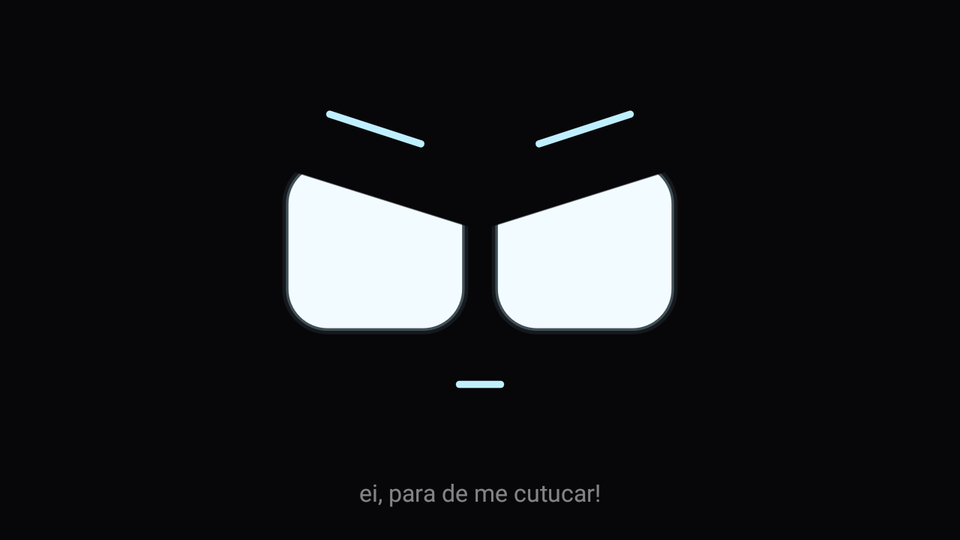
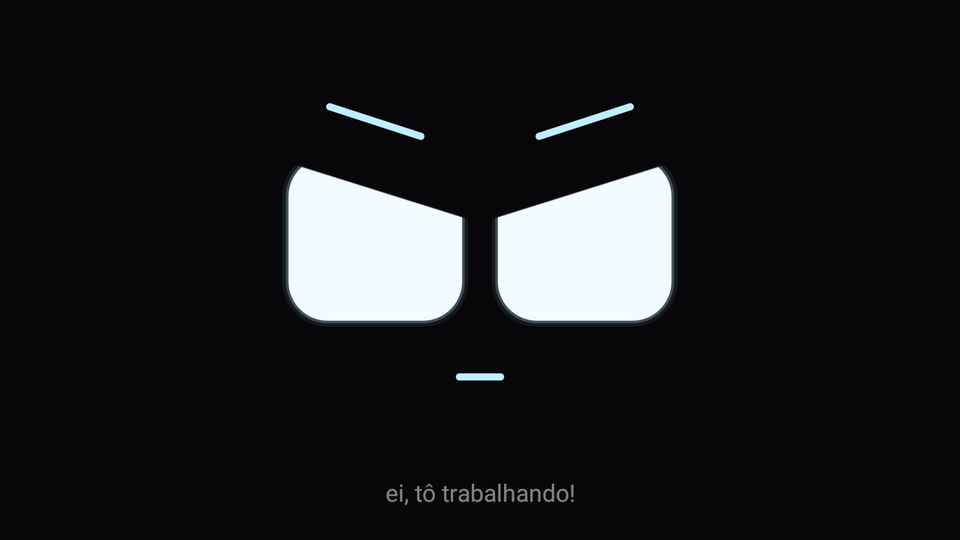
feat: Clanker fala como segurança dedicado

diff --git a/app/src/test/java/dev/rique/guardiao/mood/MoodEngineTest.kt b/app/src/test/java/dev/rique/guardiao/mood/MoodEngineTest.kt
@@ -14,7 +14,7 @@ class MoodEngineTest {
     fun idle_is_contente_with_caption() {
         val s = engine().state(emptyList(), 0)
         assertEquals(Expression.CONTENTE, s.expression)
-        assertEquals("tudo tranquilo", s.caption)
+        assertEquals("tudo sob controle", s.caption)
     }
 
     @Test
@@ -25,17 +25,17 @@ class MoodEngineTest {
         val scared = e.state(down, 4_999)
         assertEquals(Expression.ASSUSTADO, scared.expression)
         assertEquals(Effect.SHAKE, scared.effect)
-        assertEquals("nginx caiu!", scared.caption)
+        assertEquals("PERDI O nginx!", scared.caption)
         val after = e.state(down, 5_001)
         assertEquals(Expression.PREOCUPADO, after.expression)
-        assertEquals("nginx fora do ar", after.caption)
+        assertEquals("nginx ainda não voltou...", after.caption)
     }
 
     @Test
     fun many_downs_single_scare_with_count() {
         val e = engine()
         e.onEvents(listOf(ServerEvent.Down(listOf("a", "b", "c", "d", "e"))), 0)
-        assertEquals("5 containers caíram!", e.state(emptyList(), 100).caption)
+        assertEquals("PERDI 5 CONTAINERS!", e.state(emptyList(), 100).caption)
     }
 
     @Test
@@ -45,7 +45,7 @@ class MoodEngineTest {
         val s = e.state(emptyList(), 3_999)
         assertEquals(Expression.COMEMORANDO, s.expression)
         assertEquals(Effect.BOUNCE, s.effect)
-        assertEquals("nginx voltou!", s.caption)
+        assertEquals("o nginx voltou pra casa!", s.caption)
         assertEquals(Effect.NONE, e.state(emptyList(), 4_001).effect)
     }
 
@@ -56,8 +56,18 @@ class MoodEngineTest {
         val s = e.state(emptyList(), 5_999)
         assertEquals(Expression.COMEMORANDO, s.expression)
         assertEquals(Effect.FIREWORKS, s.effect)
-        assertEquals("2 containers novos!", s.caption)
+        assertEquals("2 containers novos na família!", s.caption)
         assertEquals(Effect.NONE, e.state(emptyList(), 6_001).effect)
+        val one = engine()
+        one.onEvents(listOf(ServerEvent.New(listOf("redis"))), 0)
+        assertEquals("bem-vindo à família, redis!", one.state(emptyList(), 10).caption)
+    }
+
+    @Test
+    fun idle_caption_follows_the_shift() {
+        assertEquals("tudo sob controle", engine(9).state(emptyList(), 0).caption)
+        assertEquals("ninguém cai no meu turno", engine(15).state(emptyList(), 0).caption)
+        assertEquals("vigiando enquanto você dorme", engine(2).state(emptyList(), 0).caption)
     }
 
     @Test
@@ -70,14 +80,14 @@ class MoodEngineTest {
     @Test
     fun problem_maps_to_expression() {
         val cases = mapOf(
-            Problem.TempCritical("Core 0", 95.4) to (Expression.DRAMATICO to "Core 0 a 95 °C"),
-            Problem.DiskFull("/media", 92.6) to (Expression.DRAMATICO to "disco /media em 93%"),
-            Problem.ContainersDown(listOf("a", "b")) to (Expression.PREOCUPADO to "2 containers fora do ar"),
-            Problem.Unhealthy(listOf("immich")) to (Expression.PREOCUPADO to "immich não está bem"),
-            Problem.Unhealthy(listOf("a", "b", "c")) to (Expression.PREOCUPADO to "3 containers não estão bem"),
-            Problem.TempWarning("Core 1", 76.0) to (Expression.BRAVO to "Core 1 a 76 °C"),
-            Problem.CpuHigh(93.2) to (Expression.BRAVO to "CPU em 93%"),
-            Problem.Unreachable to (Expression.PROCURANDO to "sem contato com o servidor"),
+            Problem.TempCritical("Core 0", 95.4) to (Expression.DRAMATICO to "Core 0 a 95 °C, tá pegando fogo!"),
+            Problem.DiskFull("/media", 92.6) to (Expression.DRAMATICO to "disco /media em 93%, não cabe mais ninguém!"),
+            Problem.ContainersDown(listOf("a", "b")) to (Expression.PREOCUPADO to "2 containers ainda fora..."),
+            Problem.Unhealthy(listOf("immich")) to (Expression.PREOCUPADO to "immich não tá bem, tô cuidando"),
+            Problem.Unhealthy(listOf("a", "b", "c")) to (Expression.PREOCUPADO to "3 containers não tão bem, tô cuidando"),
+            Problem.TempWarning("Core 1", 76.0) to (Expression.BRAVO to "Core 1 a 76 °C, tô de olho"),
+            Problem.CpuHigh(93.2) to (Expression.BRAVO to "CPU em 93%, aguenta firme!"),
+            Problem.Unreachable to (Expression.PROCURANDO to "cadê o servidor?! SERVIDOR?!"),
         )
         for ((problem, expected) in cases) {
             val s = engine().state(listOf(problem), 0)
@@ -197,7 +207,7 @@ class MoodEngineTest {
     fun night_rests_calm() {
         val s = engine(22).state(emptyList(), 0)
         assertEquals(Expression.CALMO, s.expression)
-        assertEquals("tudo tranquilo", s.caption)
+        assertEquals("vigiando enquanto você dorme", s.caption)
         assertTrue(idleRun(22).count { it.expression == Expression.CALMO } > idleRun(22).size / 2)
     }
 
@@ -236,7 +246,7 @@ class MoodEngineTest {
         assertEquals(0.8f, s.gazeX, 0.001f)
         assertEquals(-0.5f, s.gazeY, 0.001f)
         assertEquals(Effect.BOUNCE, s.effect)
-        assertEquals("oi!", s.caption)
+        assertEquals("oi, chefe!", s.caption)
     }
 
     @Test
@@ -245,7 +255,7 @@ class MoodEngineTest {
         e.onTouch(0.8f, -0.5f, 1_000)
         val s = e.state(emptyList(), 2_700)
         assertEquals(Expression.CONTENTE, s.expression)
-        assertEquals("tudo tranquilo", s.caption)
+        assertEquals("tudo sob controle", s.caption)
     }
 
     @Test
@@ -254,7 +264,7 @@ class MoodEngineTest {
         val t = taps(e, 2)
         val s = e.state(emptyList(), t + 100)
         assertEquals(Expression.COMEMORANDO, s.expression)
-        assertEquals("hehe, cócegas!", s.caption)
+        assertEquals("hehe, em serviço não!", s.caption)
     }
 
     @Test
@@ -264,11 +274,11 @@ class MoodEngineTest {
         val angry = e.state(emptyList(), t3 + 100)
         assertEquals(Expression.BRAVO, angry.expression)
         assertEquals(Effect.SHAKE, angry.effect)
-        assertEquals("ei, para de me cutucar!", angry.caption)
+        assertEquals("ei, tô trabalhando!", angry.caption)
         val t5 = taps(e, 2, t3 + 300)
         val drama = e.state(emptyList(), t5 + 100)
         assertEquals(Expression.DRAMATICO, drama.expression)
-        assertEquals("socorro!", drama.caption)
+        assertEquals("socorro, tô em serviço!", drama.caption)
     }
 
     @Test
@@ -286,7 +296,7 @@ class MoodEngineTest {
         val e = engine()
         val t = taps(e, 3)
         e.onTouch(0f, 0f, t + 4_000)
-        assertEquals("oi!", e.state(emptyList(), t + 4_100).caption)
+        assertEquals("oi, chefe!", e.state(emptyList(), t + 4_100).caption)
     }
 
     @Test
@@ -296,7 +306,7 @@ class MoodEngineTest {
         val s = e.state(emptyList(), 1_100)
         assertEquals(Expression.SONOLENTO, s.expression)
         assertEquals(-0.6f, s.gazeX, 0.001f)
-        assertEquals("hm? é de noite...", s.caption)
+        assertEquals("hm? tô de plantão...", s.caption)
     }
 
     @Test
@@ -315,7 +325,7 @@ class MoodEngineTest {
     fun short_music_visit_is_fine() {
         val e = engine()
         e.onBackFromMusic(10_000, 1_000)
-        assertEquals("tudo tranquilo", e.state(emptyList(), 1_100).caption)
+        assertEquals("tudo sob controle", e.state(emptyList(), 1_100).caption)
     }
 
     @Test
@@ -324,9 +334,9 @@ class MoodEngineTest {
         e.onBackFromMusic(40_000, 1_000)
         val s = e.state(emptyList(), 1_100)
         assertEquals(Expression.BRAVO, s.expression)
-        assertEquals("hmpf... trocou eu pela música", s.caption)
+        assertEquals("hmpf... trocou o segurança pela música", s.caption)
         assertTrue(s.gazeX < -0.5f)
-        assertEquals("tudo tranquilo", e.state(emptyList(), 5_200).caption)
+        assertEquals("tudo sob controle", e.state(emptyList(), 5_200).caption)
     }
 
     @Test
@@ -335,7 +345,7 @@ class MoodEngineTest {
         e.onBackFromMusic(200_000, 1_000)
         val s = e.state(emptyList(), 1_100)
         assertEquals(Expression.DRAMATICO, s.expression)
-        assertEquals("achei que tinha me esquecido!", s.caption)
+        assertEquals("achei que tinha sido demitido!", s.caption)
     }
 
     @Test
@@ -343,6 +353,6 @@ class MoodEngineTest {
         val e = engine()
         e.onBackFromMusic(40_000, 1_000)
         e.onTouch(0f, 0f, 2_000)
-        assertEquals("oi!", e.state(emptyList(), 2_100).caption)
+        assertEquals("oi, chefe!", e.state(emptyList(), 2_100).caption)
     }
 }

diff --git a/app/src/main/java/dev/rique/guardiao/mood/MoodEngine.kt b/app/src/main/java/dev/rique/guardiao/mood/MoodEngine.kt
@@ -42,11 +42,11 @@ class MoodEngine(
             ?: events.firstOrNull { it is ServerEvent.Up }
             ?: return
         when (e) {
-            is ServerEvent.Down -> setEvent(Expression.ASSUSTADO, Effect.SHAKE, 4_000, plural(e.names, "caiu!", "containers caíram!"), nowMs)
-            is ServerEvent.Up -> setEvent(Expression.COMEMORANDO, Effect.BOUNCE, 4_000, plural(e.names, "voltou!", "containers voltaram!"), nowMs)
+            is ServerEvent.Down -> setEvent(Expression.ASSUSTADO, Effect.SHAKE, 4_000, pick(e.names, { "PERDI O $it!" }, { "PERDI $it CONTAINERS!" }), nowMs)
+            is ServerEvent.Up -> setEvent(Expression.COMEMORANDO, Effect.BOUNCE, 4_000, pick(e.names, { "o $it voltou pra casa!" }, { "$it containers voltaram pra casa!" }), nowMs)
             is ServerEvent.New -> setEvent(
                 Expression.COMEMORANDO, Effect.FIREWORKS, 6_000,
-                if (e.names.size == 1) "container novo: ${e.names[0]}" else "${e.names.size} containers novos!", nowMs,
+                pick(e.names, { "bem-vindo à família, $it!" }, { "$it containers novos na família!" }), nowMs,
             )
         }
     }
@@ -57,11 +57,11 @@ class MoodEngine(
         lastTouchMs = nowMs
         val night = DayPeriod.of(hourOf(nowMs)) == DayPeriod.NOITE
         val (expression, effect, caption) = when {
-            touchCount >= 5 -> Triple(Expression.DRAMATICO, Effect.SHAKE, "socorro!")
-            touchCount >= 3 -> Triple(Expression.BRAVO, Effect.SHAKE, "ei, para de me cutucar!")
-            touchCount == 2 -> Triple(Expression.COMEMORANDO, Effect.BOUNCE, "hehe, cócegas!")
-            night -> Triple(Expression.SONOLENTO, Effect.NONE, "hm? é de noite...")
-            else -> Triple(Expression.CURIOSO, Effect.BOUNCE, "oi!")
+            touchCount >= 5 -> Triple(Expression.DRAMATICO, Effect.SHAKE, "socorro, tô em serviço!")
+            touchCount >= 3 -> Triple(Expression.BRAVO, Effect.SHAKE, "ei, tô trabalhando!")
+            touchCount == 2 -> Triple(Expression.COMEMORANDO, Effect.BOUNCE, "hehe, em serviço não!")
+            night -> Triple(Expression.SONOLENTO, Effect.NONE, "hm? tô de plantão...")
+            else -> Triple(Expression.CURIOSO, Effect.BOUNCE, "oi, chefe!")
         }
         touchState = MoodState(expression, gazeX = x, gazeY = y, effect = effect, caption = caption, effectKey = nowMs)
         touchUntilMs = nowMs + if (touchCount >= 3) 2_200 else 1_500
@@ -69,8 +69,8 @@ class MoodEngine(
 
     fun onBackFromMusic(stayedMs: Long, nowMs: Long) {
         val (expression, caption) = when {
-            stayedMs >= 180_000 -> Expression.DRAMATICO to "achei que tinha me esquecido!"
-            stayedMs >= 30_000 -> Expression.BRAVO to "hmpf... trocou eu pela música"
+            stayedMs >= 180_000 -> Expression.DRAMATICO to "achei que tinha sido demitido!"
+            stayedMs >= 30_000 -> Expression.BRAVO to "hmpf... trocou o segurança pela música"
             else -> return
         }
         touchState = MoodState(expression, gazeX = -0.9f, gazeY = 0.3f, caption = caption)
@@ -109,7 +109,11 @@ class MoodEngine(
             offsetX = q?.offsetX ?: 0f,
             tilt = q?.tilt ?: 0f,
             effect = q?.effect ?: Effect.NONE,
-            caption = "tudo tranquilo",
+            caption = when (DayPeriod.of(hourOf(nowMs))) {
+                DayPeriod.MANHA -> "tudo sob controle"
+                DayPeriod.TARDE -> "ninguém cai no meu turno"
+                DayPeriod.NOITE -> "vigiando enquanto você dorme"
+            },
             blink = blink(expression, nowMs),
         )
     }
@@ -208,17 +212,17 @@ class MoodEngine(
     }
 
     private fun captionFor(p: Problem) = when (p) {
-        is Problem.TempCritical -> "${p.label} a ${p.celsius.roundToInt()} °C"
-        is Problem.TempWarning -> "${p.label} a ${p.celsius.roundToInt()} °C"
-        is Problem.DiskFull -> "disco ${p.mount} em ${p.percent.roundToInt()}%"
-        is Problem.CpuHigh -> "CPU em ${p.percent.roundToInt()}%"
-        is Problem.ContainersDown -> plural(p.names, "fora do ar", "containers fora do ar")
-        is Problem.Unhealthy -> plural(p.names, "não está bem", "containers não estão bem")
-        Problem.Unreachable -> "sem contato com o servidor"
+        is Problem.TempCritical -> "${p.label} a ${p.celsius.roundToInt()} °C, tá pegando fogo!"
+        is Problem.TempWarning -> "${p.label} a ${p.celsius.roundToInt()} °C, tô de olho"
+        is Problem.DiskFull -> "disco ${p.mount} em ${p.percent.roundToInt()}%, não cabe mais ninguém!"
+        is Problem.CpuHigh -> "CPU em ${p.percent.roundToInt()}%, aguenta firme!"
+        is Problem.ContainersDown -> pick(p.names, { "$it ainda não voltou..." }, { "$it containers ainda fora..." })
+        is Problem.Unhealthy -> pick(p.names, { "$it não tá bem, tô cuidando" }, { "$it containers não tão bem, tô cuidando" })
+        Problem.Unreachable -> "cadê o servidor?! SERVIDOR?!"
     }
 
-    private fun plural(names: List<String>, one: String, many: String) =
-        if (names.size == 1) "${names[0]} $one" else "${names.size} $many"
+    private fun pick(names: List<String>, one: (String) -> String, many: (Int) -> String) =
+        if (names.size == 1) one(names[0]) else many(names.size)
 
     private companion object {
         const val BLINK_MS = 120L

diff --git a/README.md b/README.md
@@ -40,17 +40,17 @@ Depois de 60 s sem toque, qualquer tela volta para o Clanker.
 
 | Toques seguidos | Reação |
 |---|---|
-| 1 | "oi!" e um pulinho (à noite: "hm? é de noite...", com sono) |
-| 2 | "hehe, cócegas!" |
-| 3–4 | "ei, para de me cutucar!", bravo |
-| 5 ou mais | "socorro!", dramático |
+| 1 | "oi, chefe!" e um pulinho (à noite: "hm? tô de plantão...", com sono) |
+| 2 | "hehe, em serviço não!", com cócegas |
+| 3–4 | "ei, tô trabalhando!", bravo |
+| 5 ou mais | "socorro, tô em serviço!", dramático |
 
 <p align="center">
   <img src="docs/img/bravo.png" width="320" alt="Clanker bravo">
   <img src="docs/img/socorro.png" width="320" alt="Clanker dramático">
 </p>
 
-**Ciúme da música:** se você passa mais de 30 s na tela de música, ele volta emburrado, olhando para o outro lado ("hmpf... trocou eu pela música"). Depois de 3 min, fica dramático: "achei que tinha me esquecido!". Um toque nele desfaz o bico.
+**Ciúme da música:** se você passa mais de 30 s na tela de música, ele volta emburrado, olhando para o outro lado ("hmpf... trocou o segurança pela música"). Depois de 3 min, fica dramático: "achei que tinha sido demitido!". Um toque nele desfaz o bico.
 
 **A hora do dia:**
 - **Manhã (6h–12h):** agitado, mexe toda hora e dá pulinhos.

diff --git a/docs/USO.md b/docs/USO.md
@@ -11,7 +11,7 @@ O Moto C Plus funciona como um display dedicado. São três telas: o painel do s
   - CPU alta, disco cheio ou temperatura alta: fica bravo ou dramático;
   - servidor sem resposta: fica procurando;
   - tudo bem: tem manias aleatórias, incluindo os olhos de coração.
-  - Tocar nele: olha para o dedo e diz "oi!". Dois toques são cócegas; de 3 em diante ele fica bravo e, a partir de 5, dramático. Depois de 3 s sem toque ele esquece.
+  - Tocar nele: olha para o dedo e diz "oi, chefe!". Dois toques são cócegas; de 3 em diante ele fica bravo e, a partir de 5, dramático. Depois de 3 s sem toque ele esquece.
   - Ciúme: depois de mais de 30 s na tela de música, ele volta emburrado; depois de 3 min, dramático.
   - O humor muda com a hora:
     - manhã (6h–12h): agitado, mexe muito e dá pulinhos;
